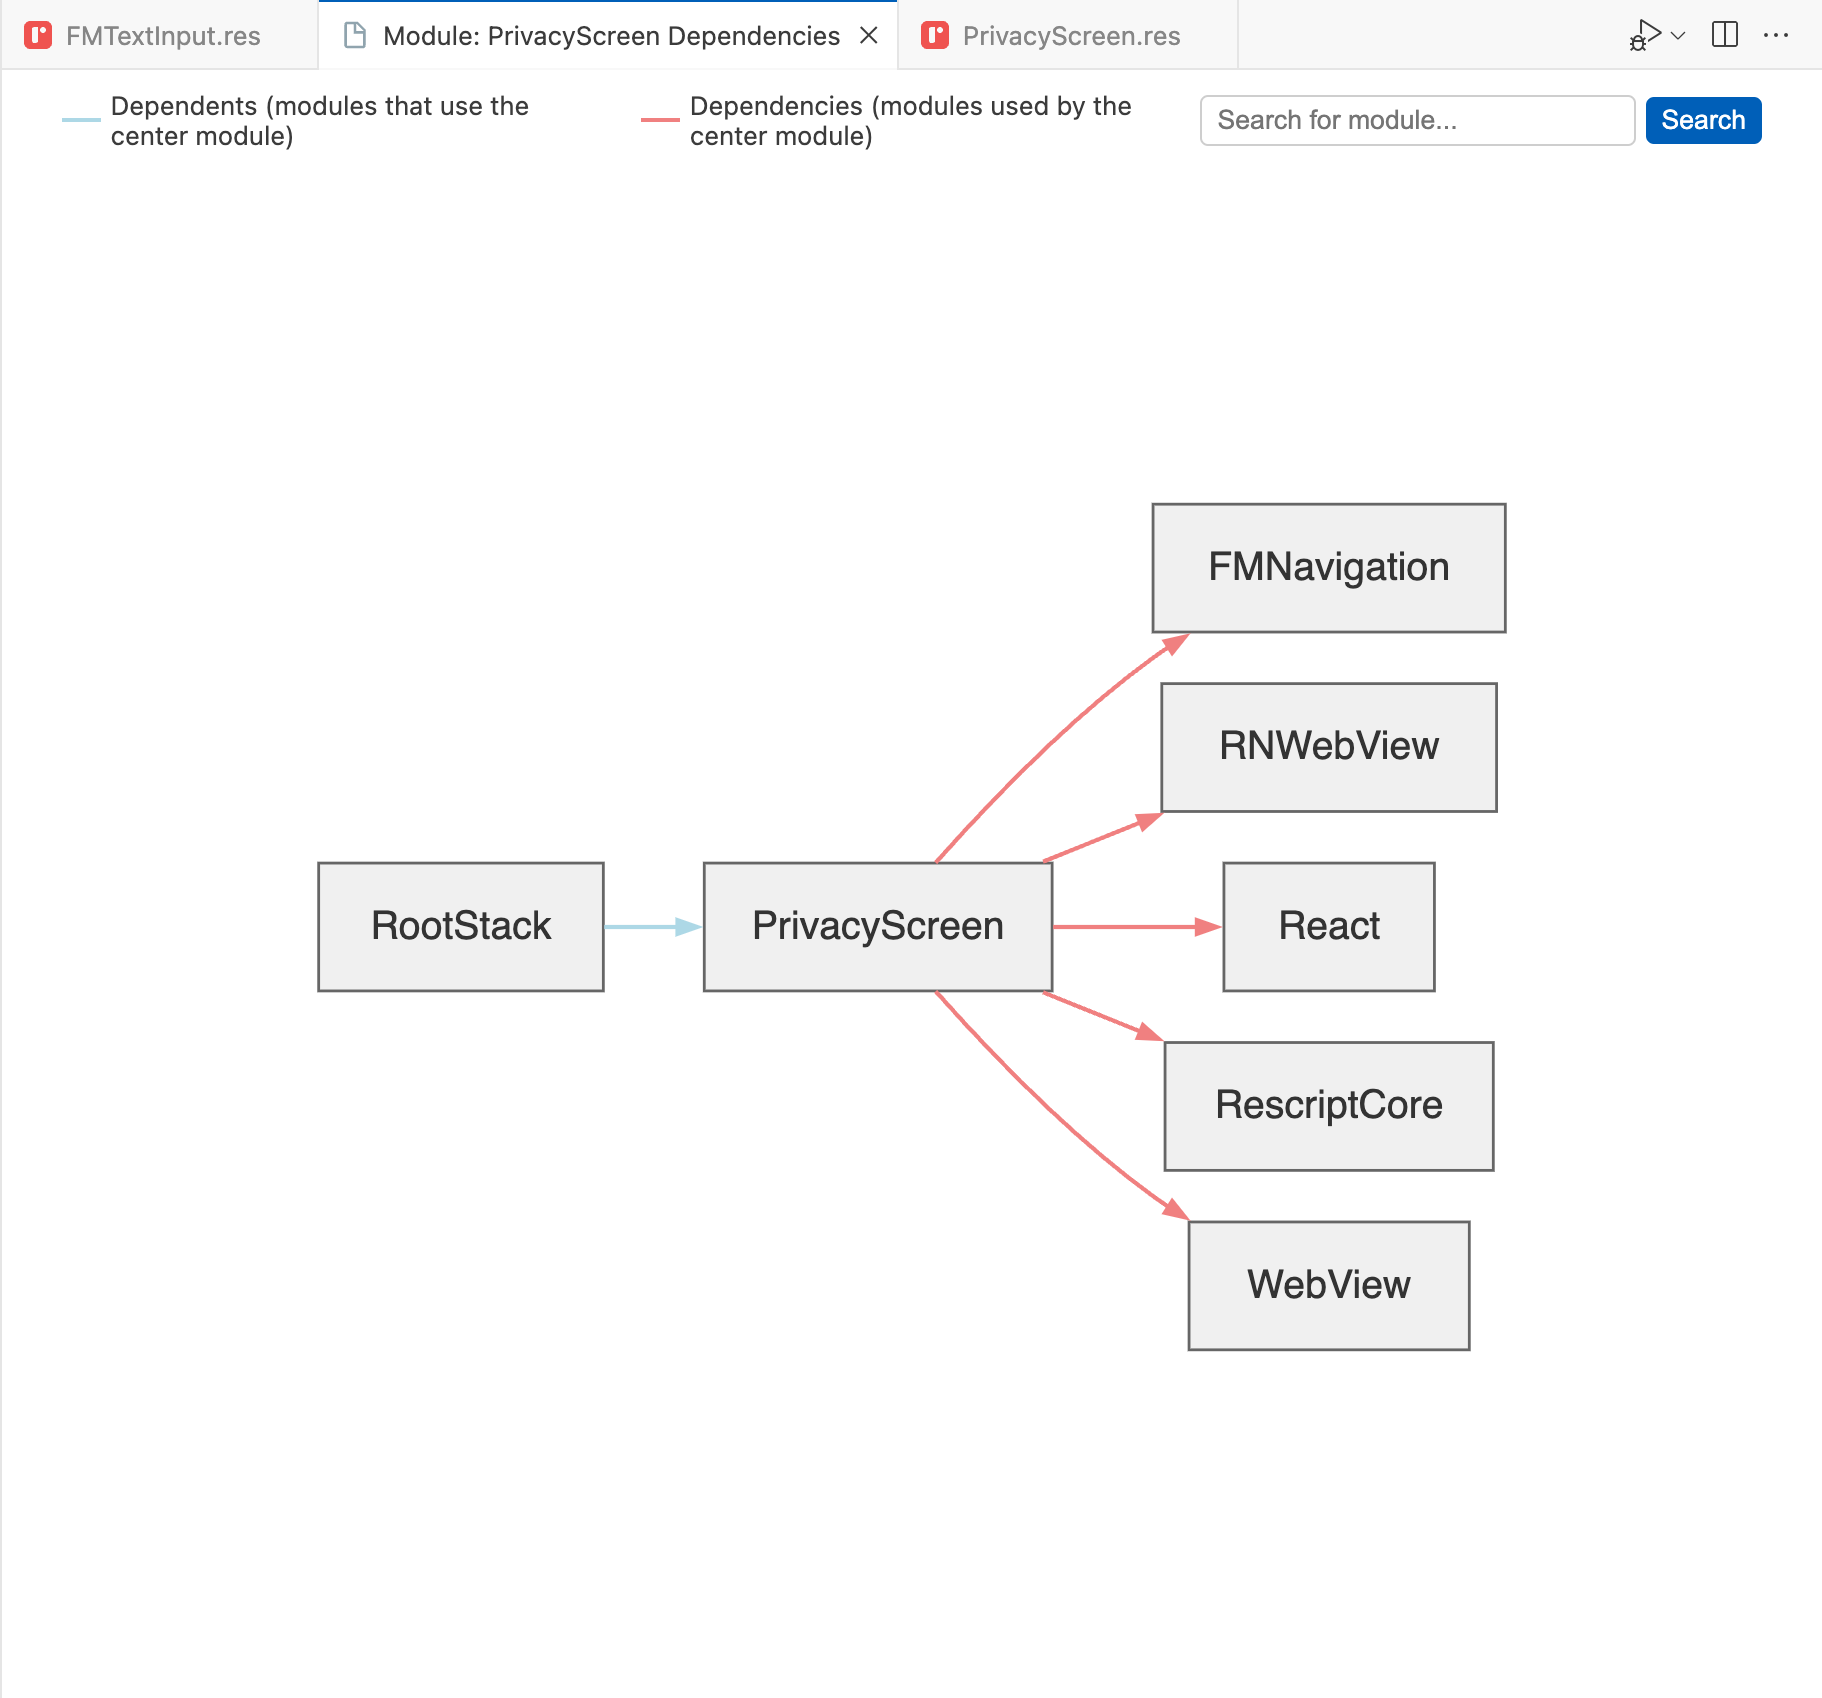
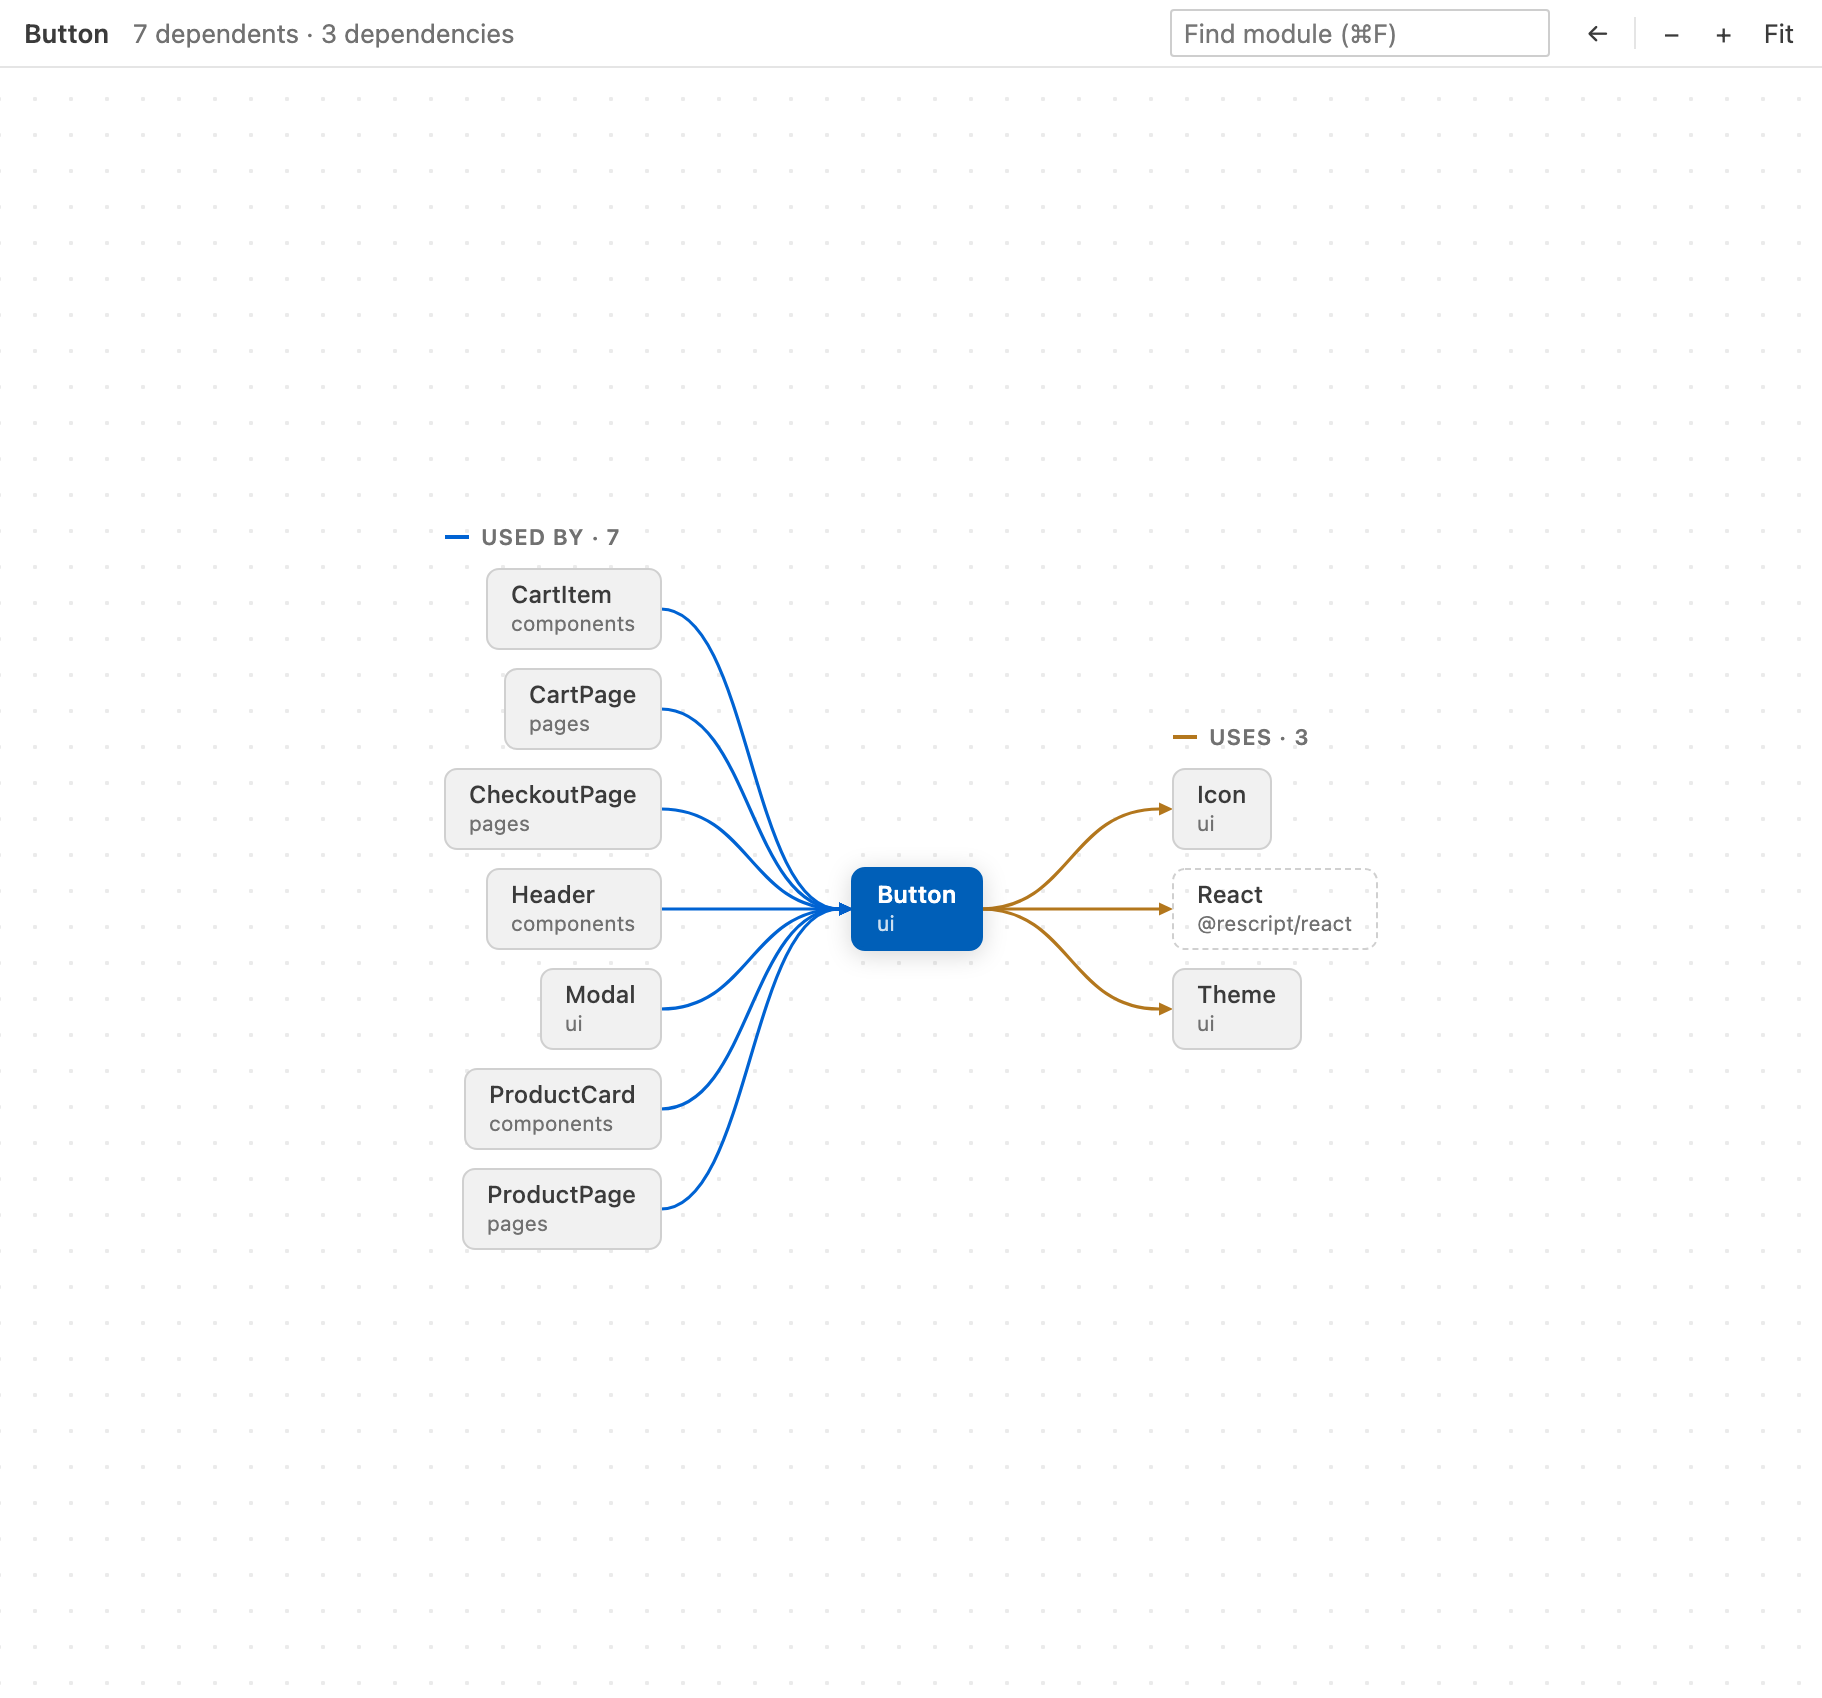
docs: explain graph interactions and refresh marketplace screenshots

diff --git a/vscode-rescriptdep/README.md b/vscode-rescriptdep/README.md
@@ -10,7 +10,7 @@ A Visual Studio Code extension for visualizing dependencies between ReScript mod
 
 - **Interactive Graph**: Click on modules to navigate through dependencies
 - **Value Usage Count**: See how many times each let binding is used, directly in the editor
-- **High Performance**: Uses digest-based caching to improve performance for large projects
+- **Responsive Graph Viewer**: Local Graphviz layout, module search, keyboard navigation, and cancellable analysis; no network connection required for rendering
 
 <div style="display: flex; justify-content: space-between;">
   <img src="https://github.com/mununki/rescriptdep/raw/main/vscode-rescriptdep/images/rescriptdep_screenshot_0.png" alt="ReScript Dependency Visualization" width="49%">
@@ -19,7 +19,7 @@ A Visual Studio Code extension for visualizing dependencies between ReScript mod
 
 ## Value Usage Count Annotation
 
-This extension also shows how many times each value (e.g., a function or let binding) is used across your project. When you place your cursor on a `let ... =` declaration in a `.res` file, an inline annotation will appear at the end of the line, such as `Used 0 times`. This helps you quickly identify unused or rarely used values.
+This extension also shows how many times each value (e.g., a function or let binding) is used across your project. When you place your cursor on a `let ... =` declaration in a `.res` file, an inline annotation will appear at the end of the line, such as `Used 0 times`. Partial results appear as `Used N+ times`; unavailable results are not shown. Save and compile your source to refresh analysis. This helps you quickly identify unused or rarely used values.
 
 <div align="center">
   <img src="https://github.com/mununki/rescriptdep/raw/main/vscode-rescriptdep/images/rescriptdep_screenshot_2.png" alt="Value Usage Count Annotation" width="60%">
@@ -60,11 +60,15 @@ This extension provides several commands in the Command Palette (`Ctrl+Shift+P` 
 ## Usage Tips
 
 1. **After Major Changes**: When making significant changes to your codebase (including module deletion), run `rescript clean` to recompile your project for improved analysis accuracy
-2. **Module Navigation**: Click on any module in the visualization to focus on that module
+2. **Module Navigation**: Click a module to focus its dependencies. Click the centre module, double-click, or Cmd/Ctrl+click to open its source. Use Back to return to earlier views. The editor-title button focuses the module in that editor.
+3. **Pan and Zoom**: Drag the canvas or use the mouse wheel to pan. **Wheel behavior has changed:** hold Ctrl/Cmd while scrolling to zoom around the pointer. Use +, −, or Fit in the toolbar for zoom controls.
+4. **Find and Keyboard Navigation**: Cmd/Ctrl+F opens module search. Enter cycles matches; Escape returns focus to the current match. Tab selects controls and modules; Enter or Space activates a module. Shift+F10 opens its context menu.
+5. **Context Menus**: Right-click a module to Open, Focus, Copy Module Name, or Copy Relative Path. Right-click the canvas to Fit to View, go Back, or Show Full Graph. Actions depend on the current view and source availability.
+6. **Large Graphs**: Use a focused view when the full graph is too large. Analysis and layout can be cancelled. Modules without dependents are candidates for review, not proof that deletion is safe.
 
 ## Extension Settings
 
-This extension doesn't require any specific settings.
+`bibimbob.valueUsageCount.enabled` (default: `true`) controls inline usage annotations. The **Bibimbob: Toggle Value Usage Count** command updates this setting.
 
 ## Known Issues
 
@@ -72,6 +76,15 @@ This extension doesn't require any specific settings.
 - Please report any issues on the GitHub repository
 
 ## Release Notes
+
+### Unreleased
+
+- Rebuilt the graph viewer with searchable module cards, dependency tracing, Back navigation, theme support, and local layout.
+- Added module and canvas context menus, keyboard navigation, and source-opening shortcuts.
+- Plain scrolling now pans; hold Ctrl/Cmd while scrolling to zoom.
+- Reused graph panels and cancelled superseded analysis; bounded navigation and usage caches.
+- Improved narrow-panel layout, unused-module grids, and actionable error states.
+- Refreshed the screenshots using a neutral demo project. The usage annotation image is an illustrative editor mockup.
 
 ### 0.9.0
 

diff --git a/CHANGELOG.md b/CHANGELOG.md
@@ -7,6 +7,22 @@ and this project adheres to [Semantic Versioning](https://semver.org/spec/v2.0.0
 
 ## [Unreleased]
 
+### Changed
+- Reduced dependency analysis work with indexed graph traversal, memoized dependency lookups, and shared parsing work across output formats.
+- Rebuilt the VS Code graph viewer with local layout, search, tracing, Back navigation, accessible controls, context menus, and cancellable requests.
+- Plain wheel scrolling in the graph now pans; Ctrl/Cmd+wheel zooms.
+- CLI verbose diagnostics now go to stderr so stdout remains valid DOT or JSON.
+- `--no-cache` and `--clear-cache` remain accepted compatibility options and have no effect; the unused persistent cache was removed.
+
+### Fixed
+- Included modules referenced only in value expressions in dependency and usage analysis. Graph output may now include previously missing nodes and edges.
+- Escaped quotes and backslashes in DOT and JSON output.
+- Continued scanning readable entries when another directory entry cannot be read, reporting a warning on stderr.
+- Bounded extension caches and history, prevented stale requests and annotations, and improved graph error recovery and narrow-panel layouts.
+
+### Added
+- Golden output fixtures and regression coverage for escaping, scanning, graph navigation, and extension request lifecycles.
+
 ## [0.2.0] - 2026-10-21
 ### Added
 - Added regression coverage for dependency graph dependent-index updates
